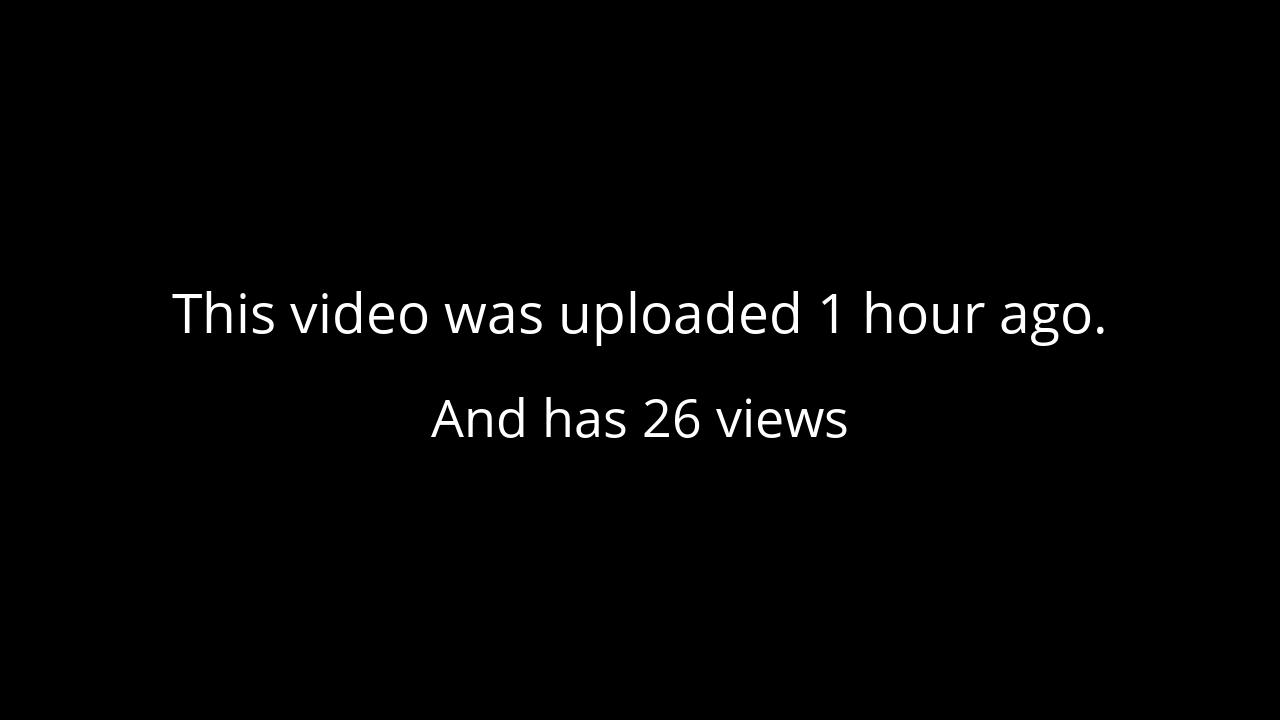
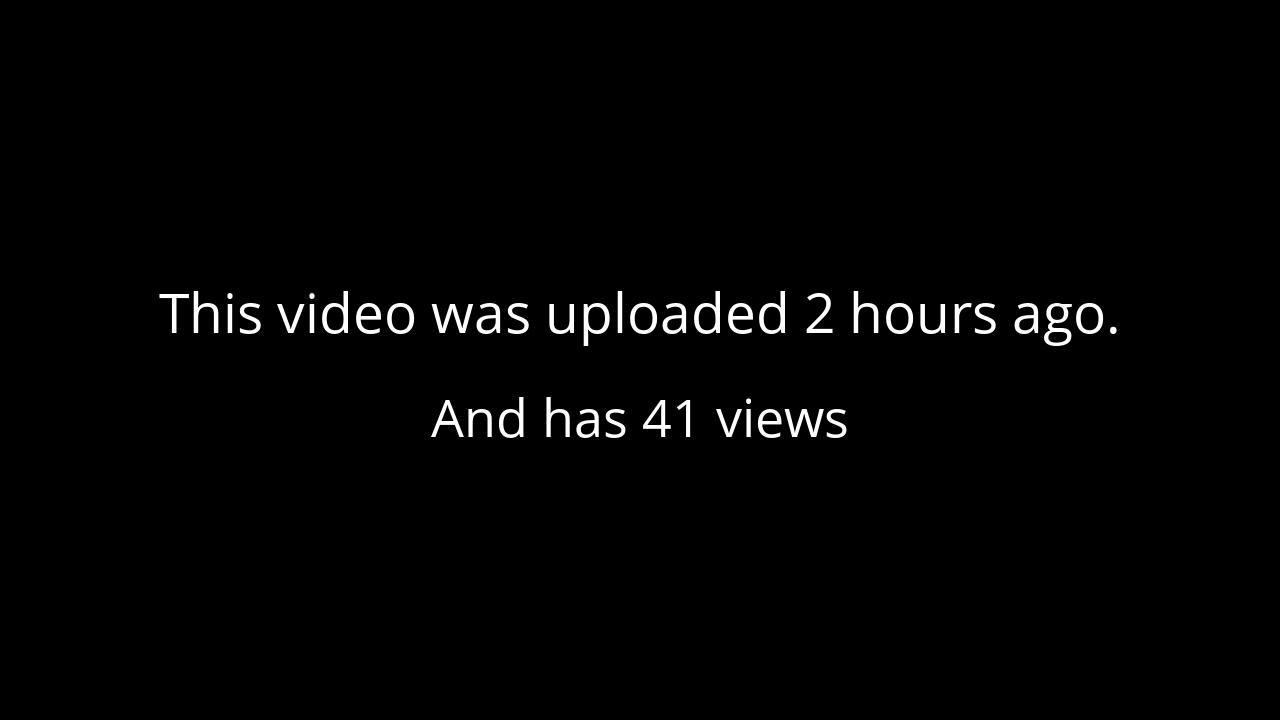
fix rounding error

Changed region(s): [[0.125, 0.3972, 0.875, 0.4889], [0.5, 0.55, 0.5625, 0.6111]]

diff --git a/main.py b/main.py
@@ -19,6 +19,7 @@ scopes = ["https://www.googleapis.com/auth/youtube.readonly", "https://www.googl
 VIDEO_ID = "4jfa0o7P-BA"
 
 UPLOAD_TIME = 1609274610
+
 MINUTE = 60
 HOUR = 60 * MINUTE
 DAY = 24 * HOUR
@@ -42,29 +43,29 @@ def main():
     while True:
         current_time = time.time()
         time_delta = current_time - UPLOAD_TIME
-        sleep_for = MINUTE
+        sleep_for = 10 * MINUTE
         time_delta_str = ""
         if 0 <= time_delta < HOUR:
-            time_delta = round(time_delta / MINUTE)
+            time_delta = int(time_delta / MINUTE)
             time_delta_str = str(time_delta) + " minute"
         elif HOUR <= time_delta < DAY:
-            time_delta = round(time_delta / HOUR)
+            time_delta = int(time_delta / HOUR)
             time_delta_str = str(time_delta) + " hour"
         elif DAY <= time_delta < WEEK:
             sleep_for = HOUR
-            time_delta = round(time_delta / DAY)
+            time_delta = int(time_delta / DAY)
             time_delta_str = str(time_delta) + " day"
         elif WEEK <= time_delta < MONTH:
             sleep_for = HOUR
-            time_delta = round(time_delta / WEEK)
+            time_delta = int(time_delta / WEEK)
             time_delta_str = str(time_delta) + " week"
         elif MONTH <= time_delta < YEAR:
             sleep_for = DAY
-            time_delta = round(time_delta / MONTH)
+            time_delta = int(time_delta / MONTH)
             time_delta_str = str(time_delta) + " month"
         elif YEAR <= time_delta:
             sleep_for = DAY
-            time_delta = round(time_delta / YEAR)
+            time_delta = int(time_delta / YEAR)
             time_delta_str = str(time_delta) + " year"
 
         if time_delta > 1:
